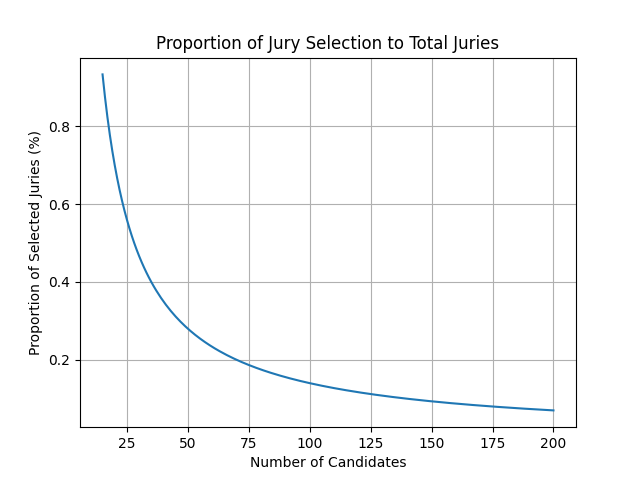
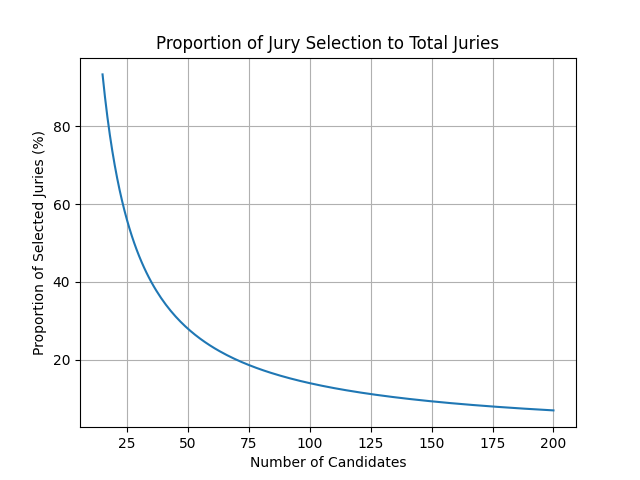
Converted Y Axis to Percentage

Changed region(s): [[0.0312, 0.2812, 0.125, 0.7812], [0.0625, 0.25, 0.125, 0.2812]]

diff --git a/main.py b/main.py
@@ -21,7 +21,7 @@ class simulation:
     def get_tuples(self):
         outcome_list = []
         for i in range(self.candidate_pool_size, self.jury_size, -1):
-            output_tuple = tuple([i, self.proportion_function(i, self.jury_size)])
+            output_tuple = tuple([i, self.proportion_function(i, self.jury_size) * 100])
             outcome_list.append(output_tuple)
         return outcome_list
     
